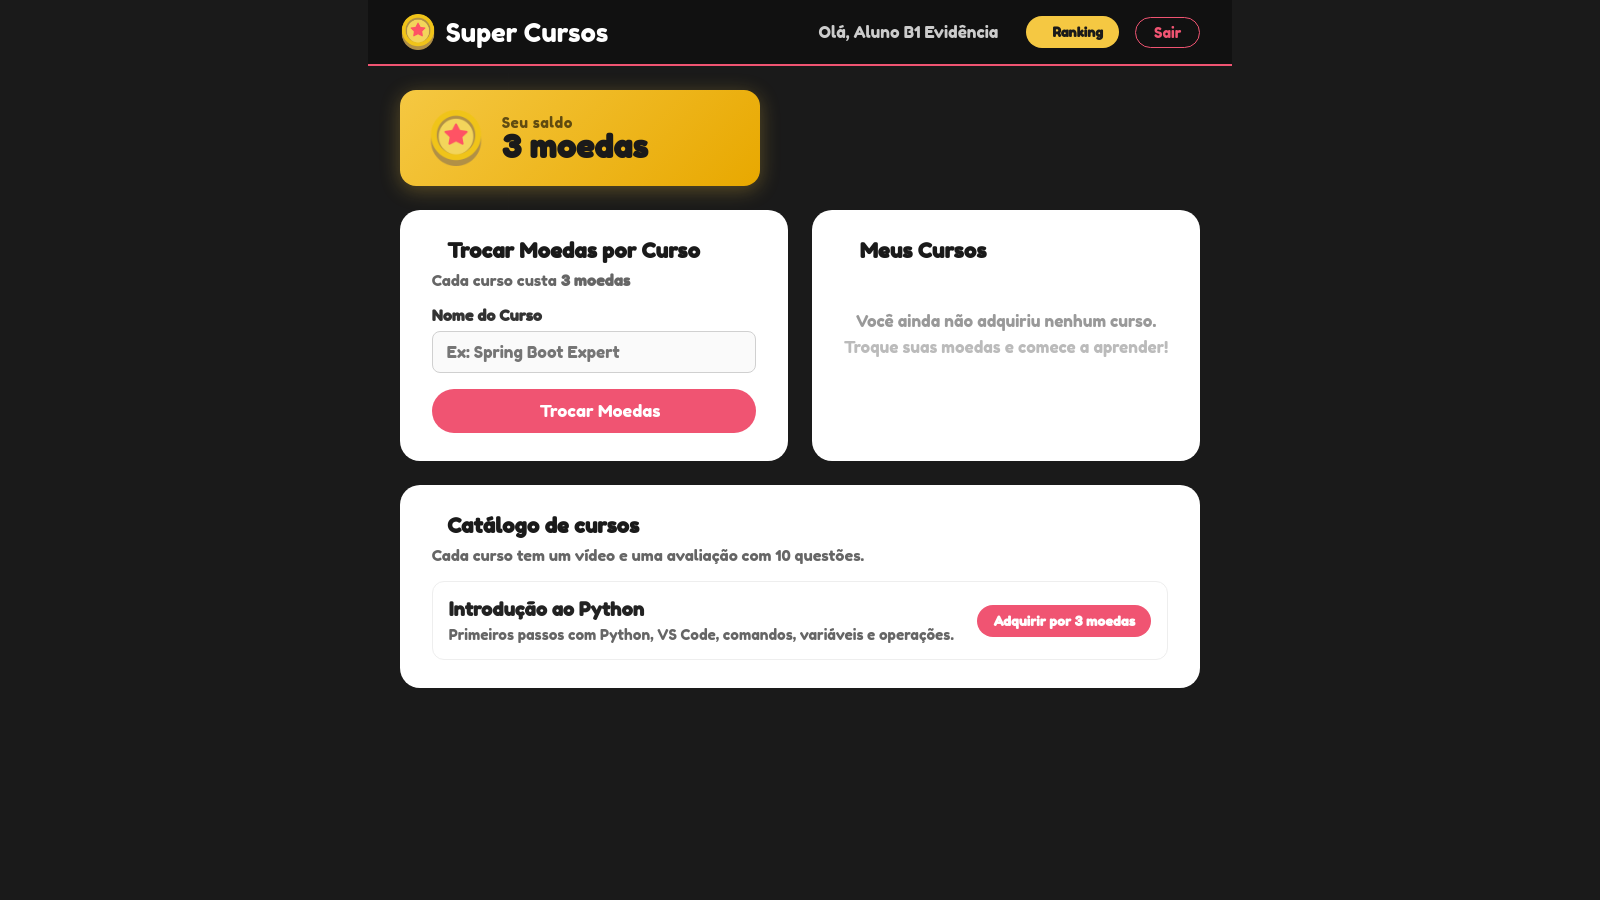
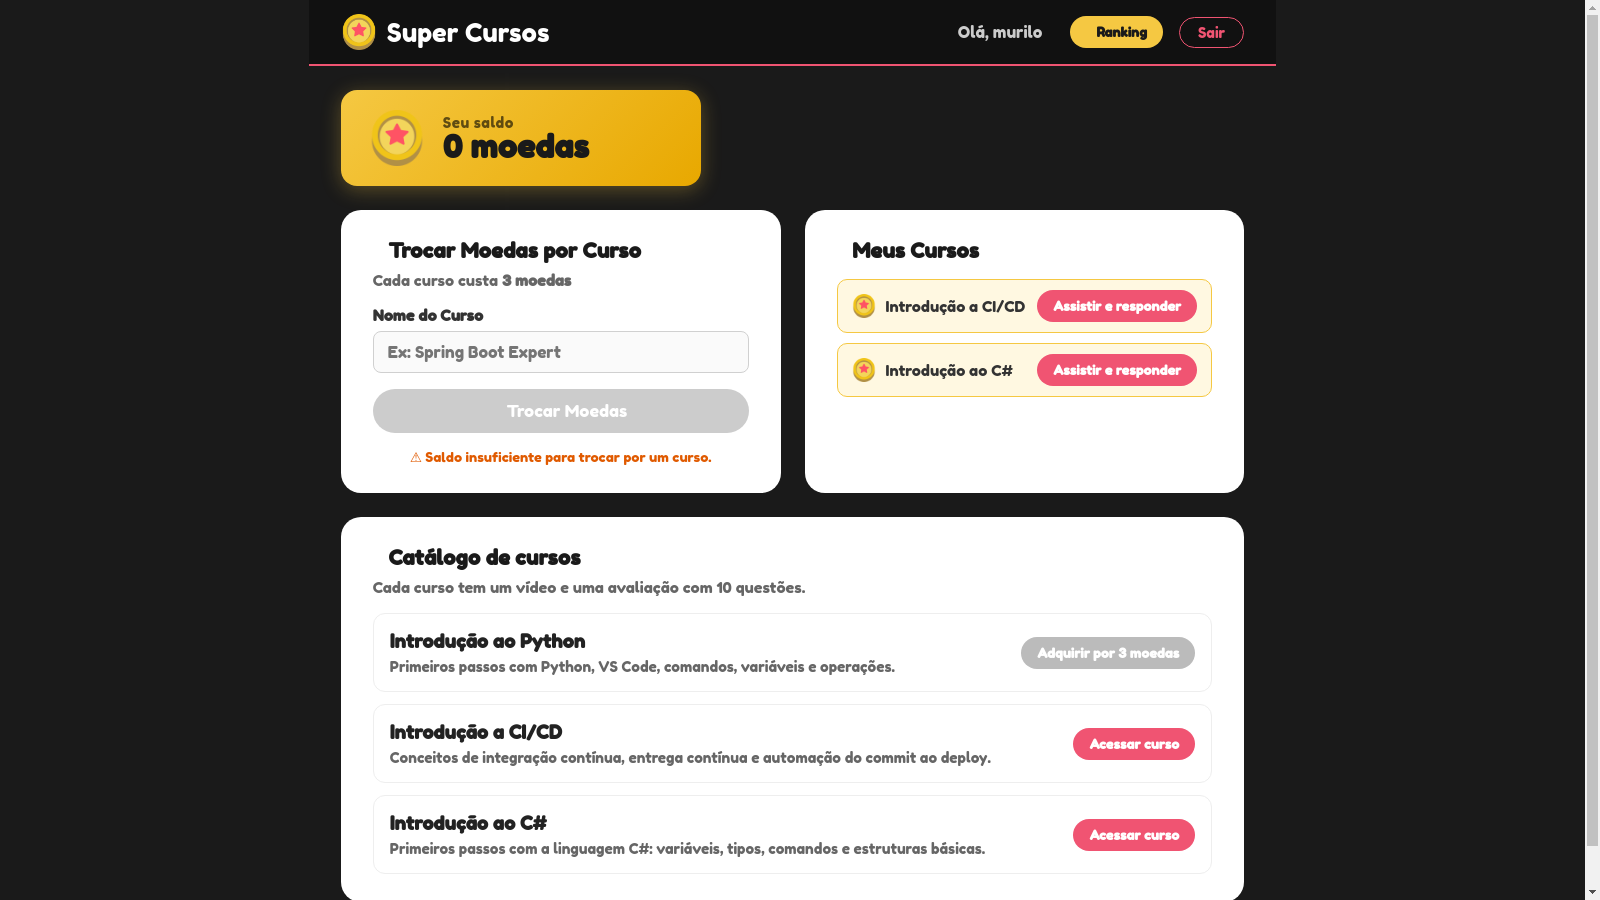
Update Readme

diff --git a/README.md b/README.md
@@ -360,15 +360,15 @@ O [print da aplicação](evidencias/B1/desafio-1/01-aplicacao-modular.png) mostr
 
 **ADR-006:** manter uma esteira até que ciclos de publicação diferentes justifiquem separação. A publicação no Docker Hub continua opcional.
 
-**Resultado B1 executado localmente:** `mvn verify` terminou com sucesso: 37 testes Java e 10 testes de integração PostgreSQL, sem falhas ou erros. Os oito cenários Cypress cobrem login, compra, saldo, os três cursos do catálogo (Python, CI/CD e C#), vídeo, avaliação e ranking. Os testes Python da IA e do gateway têm dois cenários cada. O ambiente Compose e os health checks também foram conferidos.
+**Execução local B1 em 04/11/2026:** `mvn verify` terminou com sucesso: 37 testes Java e 10 testes de integração PostgreSQL, sem falhas ou erros. Os oito cenários Cypress cobrem login, compra, saldo, os três cursos do catálogo (Python, CI/CD e C#), vídeo, avaliação e ranking. Os testes Python da IA e do gateway têm dois cenários cada. O ambiente Compose e os health checks também foram conferidos. As capturas e saídas dos mini-labs B1 desta seção foram geradas em 04/11/2026.
 
 O fallback também foi provocado com a IA parada; a [saída registrada](evidencias/B1/desafio-6/execucao-fallback.txt) mostra a resposta do Core e o contador correspondente no Prometheus.
 
-**Evidências Jenkins:** os prints abaixo são do histórico de build, com 40 testes aprovados e JaCoCo registrado. Eles comprovam a execução anterior da esteira; o código B1 atual ainda não foi executado no Jenkins porque o servidor local não estava ativo (`localhost:9090`). O `Jenkinsfile` versionado contém a pipeline atual.
+**Execução Jenkins B1 em 04/11/2026:** o job `SuperCursos-B1-2026-11-04`, build **#1**, terminou com **sucesso** em 7 min 30 s, usando o commit `ebf5fbae4409a7638164106f186cfff32b3a4507` da branch `main`. O Jenkins registrou **55 testes aprovados, sem falhas**: 37 testes Java, 10 de integração com PostgreSQL e 8 cenários Cypress. Os quatro testes Python (dois do serviço de IA e dois do gateway MQTT) também foram executados com sucesso na esteira. A etapa de cobertura JaCoCo registrou 88% de linhas e 93% de classes. Os prints abaixo são desta execução atual; as imagens de 15/10 permanecem somente como histórico do A2.
 
-![Resumo do build Jenkins #3 da AC2](evidencias/AC2/p2/02_resumo_build3_wide.jpg)
+![Build B1 aprovado no Jenkins em 04/11/2026](evidencias/B1/desafio-6/jenkins/01-build-b1-04-11-2026.png)
 
-![Testes aprovados no build Jenkins #3 da AC2](evidencias/AC2/p2/03_junit_build3_wide.jpg)
+![Relatório Jenkins: 55 testes aprovados e nenhuma falha](evidencias/B1/desafio-6/jenkins/02-testes-b1-04-11-2026.png)
 
 **Evidências Grafana:** o print do mini-lab B1 mostra a saúde e as métricas da API, Outbox e IoT. Os prints históricos da AC2 estão em [`evidencias/AC2/grafana/`](evidencias/AC2/grafana/).
 
@@ -390,6 +390,6 @@ O fallback também foi provocado com a IA parada; a [saída registrada](evidenci
 
 #### 14.4 C4 Deployment / operação
 
-<img width="1346" height="1618" alt="image" src="https://github.com/user-attachments/assets/4214a114-f562-491e-81a5-81d3e0d96d7c" />
+![Diagrama C4 Deployment e operação do Super Cursos](evidencias/B1/diagramas/c4-deployment-operacao.png)
 
 ---
